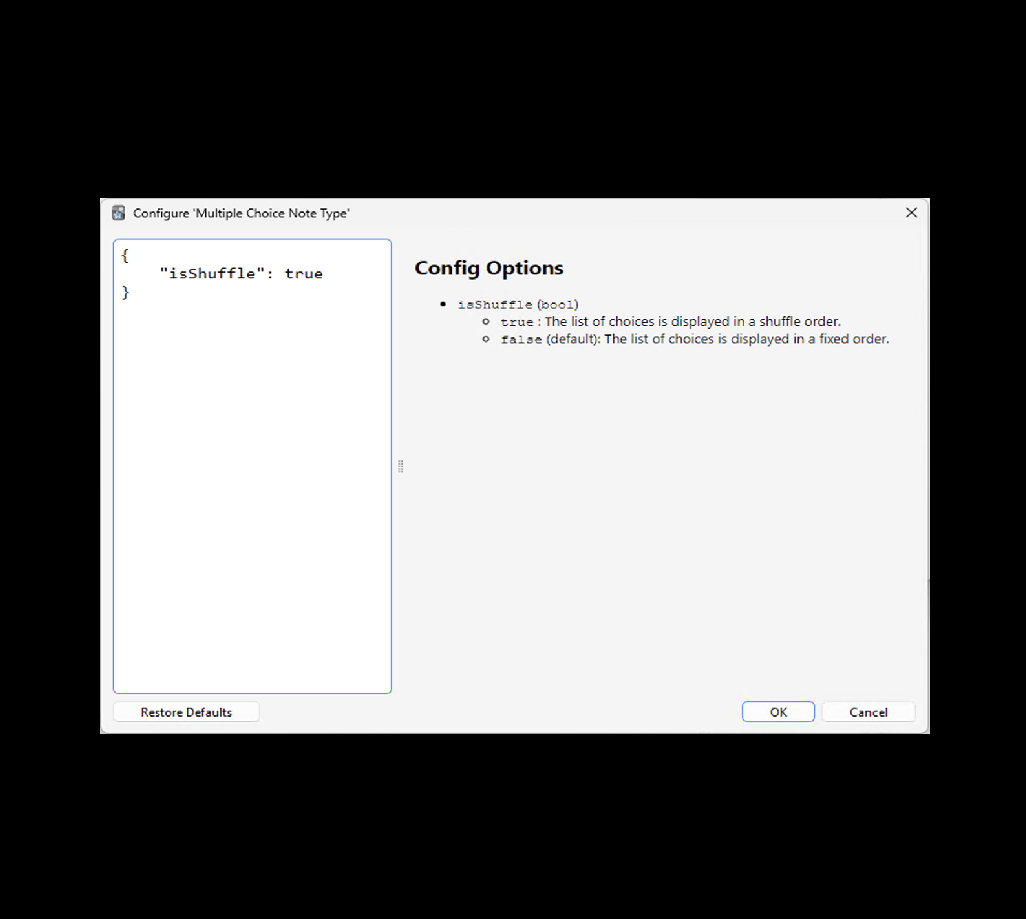
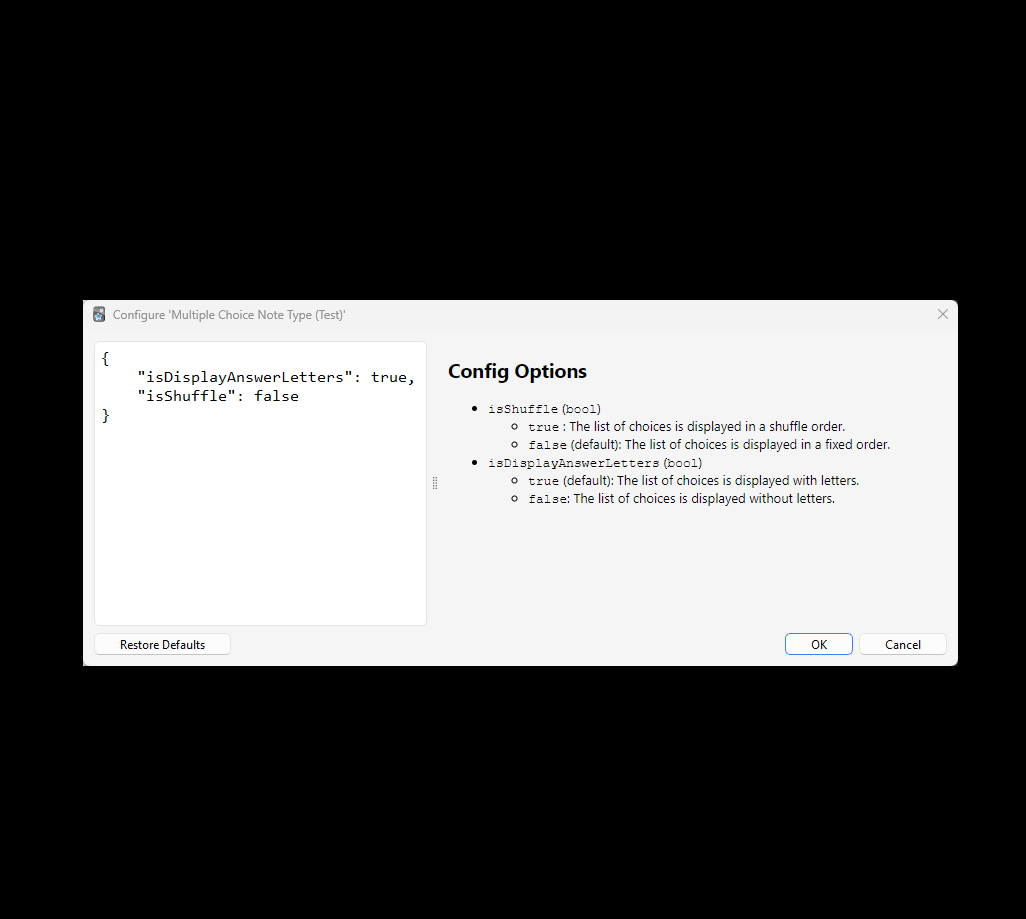
update to version v1.0.2

Changed region(s): [[0.0624, 0.2133, 0.9357, 0.8226], [0.3743, 0.4875, 0.4055, 0.518], [0.3743, 0.3961, 0.4055, 0.4266]]

diff --git a/src/mcnt/card-templates/back_template.html b/src/mcnt/card-templates/back_template.html
@@ -14,14 +14,17 @@
 
 {{#answers}}<p id="display-answers"></p>{{/answers}}
 {{#ref}}<p><b>Ref: </b>{{ref}}</p>{{/ref}}
-{{#explanation}}<fieldset><legend><b>Explanation:</b></legend>{{explanation}}</fieldset>{{/explanation}}
+{{#explanation}}<fieldset><legend><b>Explanation: {{tts en_US speed=0.8 voices=Apple_Samantha,Microsoft_Haruka:explanation}}</b></legend>{{explanation}}</fieldset>{{/explanation}}
 
 <script>
 
-	function returnTemplate(inputType, index, id, answer, checked, a ,b) {
+	function returnTemplate(inputType, index, id, answer, checked, a ,b, displayAnswerLetters) {
 		var result = '<div class="answer-div ' + a + '">';
 		result += '<div><input type="' + inputType + '" class="disabled-input" id="' + id + '" ' + checked + ' /></div>';
-		result += '<div>' + String.fromCharCode(index + 65)+ '.</div>';
+		if (displayAnswerLetters)
+			result += '<div>' + String.fromCharCode(index + 65)+ '.</div>';
+		else
+			result += '<div>&nbsp;</div>';
 		result += '<div><label for="' + id + '">' + answer + '</label></div>';
 		result += '<div class="' + b + '"></div>';
 		result += '</div>';
@@ -71,7 +74,7 @@
 			var checkAnswerResult = checkAnswer(divArray[i]);
 			if (checkAnswerResult == "correct" || checkAnswerResult == "missed") 
 				answerDisplayArray.push(String.fromCharCode(i + 65));
-			answerDiv.innerHTML += returnTemplate(inputType, i, answerJson[divArray[i]].id, answerJson[divArray[i]].answer, checked, checkAnswerResult + "-background", checkAnswerResult);
+			answerDiv.innerHTML += returnTemplate(inputType, i, answerJson[divArray[i]].id, answerJson[divArray[i]].answer, checked, checkAnswerResult + "-background", checkAnswerResult, isDisplayAnswerLetters);
 		}
 
 	}

diff --git a/src/mcnt/card-templates/front_template.html b/src/mcnt/card-templates/front_template.html
@@ -4,15 +4,24 @@
 </script>
 
 {{#number}}<h3>Question #{{number}}</h3>{{/number}}
-{{#question}}<p>{{question}}</p>{{/question}}
+{{#question}}
+<div class="question-div">
+	<div>{{tts en_US speed=0.8 voices=Apple_Samantha,Microsoft_Haruka:question}}</div>
+	<div>{{question}}</div>
+</div>
+{{/question}}
+<br/>
 <div id="answer-div"></div>
 
 <script>
 
-	function returnTemplate(inputType, index, id, answer) {
+	function returnTemplate(inputType, index, id, answer, displayAnswerLetters) {
 		var result = '<div class="answer-div">';
 		result += '<div><input type="' + inputType + '" onclick="selectAnswer();" name="SelectedAnswer" id="' + id + '" /></div>';
-		result += '<div>' + String.fromCharCode(index + 65)+ '.</div>';
+		if (displayAnswerLetters)
+			result += '<div>' + String.fromCharCode(index + 65)+ '.</div>';
+		else
+			result += '<div>&nbsp;</div>';
 		result += '<div><label for="' + id + '">' + answer + '</label></div>';
 		result += '<div></div>';
 		result += '</div>';
@@ -74,7 +83,7 @@
 	for (var i = 0; i < answerJson.length; i++) {
 		divArray.push(answerJson[i].id);
 		var inputType = answersArray.length > 1 ? "checkbox" : "radio";
-		answerDiv.innerHTML += returnTemplate(inputType, i, answerJson[i].id, answerJson[i].answer);
+		answerDiv.innerHTML += returnTemplate(inputType, i, answerJson[i].id, answerJson[i].answer, isDisplayAnswerLetters);
 	}
 
 	if (Persistence.isAvailable()) {

diff --git a/src/mcnt/card-templates/styling.css b/src/mcnt/card-templates/styling.css
@@ -4,6 +4,22 @@
     text-align: left;
 }
 
+.question-div {
+    vertical-align: top;
+    display: flex;
+}
+
+.question-div div:nth-child(1) {
+    display: inline-block;
+    margin: 5px 5px 5px 5px;
+    width: 60px;
+}
+
+.question-div div:nth-child(2) {
+    display: inline-block;
+    margin: 5px 15px 5px 0px;
+}
+
 .answer-div {
     vertical-align: top;
     display: flex;

diff --git a/src/mcnt/__init__.py b/src/mcnt/__init__.py
@@ -51,12 +51,19 @@ def create_note_type(col: Collection) -> dict[str, Any]:
     col.models.add_template(model, template)
 
     front_template = load_template(front_template_path)
-    if config["isShuffle"]:
-        model["tmpls"][0]["qfmt"] = front_template.replace("isShuffle","true")
+    if config["isShuffle"] is True and config["isDisplayAnswerLetters"] is True:
+        model["tmpls"][0]["qfmt"] = front_template.replace("isShuffle","true").replace("isDisplayAnswerLetters","true")
+    elif config["isShuffle"] is True and config["isDisplayAnswerLetters"] is False:
+        model["tmpls"][0]["qfmt"] = front_template.replace("isShuffle","true").replace("isDisplayAnswerLetters","false")
+    elif config["isShuffle"] is False and config["isDisplayAnswerLetters"] is True:
+        model["tmpls"][0]["qfmt"] = front_template.replace("isShuffle","false").replace("isDisplayAnswerLetters","true")
     else:
-        model["tmpls"][0]["qfmt"] = front_template.replace("isShuffle","false")
+        model["tmpls"][0]["qfmt"] = front_template.replace("isShuffle","false").replace("isDisplayAnswerLetters","false")
     back_template = load_template(back_template_path)
-    model["tmpls"][0]["afmt"] = back_template
+    if config["isDisplayAnswerLetters"] is True:
+        model["tmpls"][0]["afmt"] = back_template.replace("isDisplayAnswerLetters","true")
+    else:
+        model["tmpls"][0]["afmt"] = back_template.replace("isDisplayAnswerLetters","false")
     styling = load_template(styling_template_path)
     model["css"] = styling
 
@@ -72,12 +79,19 @@ def update_note_type(col: Collection) -> dict[str, Any]:
 
     # Update Card Template
     front_template = load_template(front_template_path)
-    if config["isShuffle"]:
-        model["tmpls"][0]["qfmt"] = front_template.replace("isShuffle","true")
+    if config["isShuffle"] is True and config["isDisplayAnswerLetters"] is True:
+        model["tmpls"][0]["qfmt"] = front_template.replace("isShuffle","true").replace("isDisplayAnswerLetters","true")
+    elif config["isShuffle"] is True and config["isDisplayAnswerLetters"] is False:
+        model["tmpls"][0]["qfmt"] = front_template.replace("isShuffle","true").replace("isDisplayAnswerLetters","false")
+    elif config["isShuffle"] is False and config["isDisplayAnswerLetters"] is True:
+        model["tmpls"][0]["qfmt"] = front_template.replace("isShuffle","false").replace("isDisplayAnswerLetters","true")
     else:
-        model["tmpls"][0]["qfmt"] = front_template.replace("isShuffle","false")
+        model["tmpls"][0]["qfmt"] = front_template.replace("isShuffle","false").replace("isDisplayAnswerLetters","false")
     back_template = load_template(back_template_path)
-    model["tmpls"][0]["afmt"] = back_template
+    if config["isDisplayAnswerLetters"] is True:
+        model["tmpls"][0]["afmt"] = back_template.replace("isDisplayAnswerLetters","true")
+    else:
+        model["tmpls"][0]["afmt"] = back_template.replace("isDisplayAnswerLetters","false")
     styling = load_template(styling_template_path)
     model["css"] = styling
 

diff --git a/README.md b/README.md
@@ -44,6 +44,11 @@ Change the order of the list of answers. ( Tools -> Add-ons -> Select "Multiple 
 - **Default** - The list of choices is displayed in a fixed order. ( Chnage `isShuffle` value to `false` )
 - The list of choices is displayed in a shuffle order. ( Chnage `isShuffle` value to `true` )
 
+Change the display of letters of answers. ( Tools -> Add-ons -> Select "Multiple Choice Note Type" -> Config)
+
+- **Default** - The list of choices is displayed with letters. ( Chnage `isDisplayAnswerLetters` value to `true` )
+- The list of choices is displayed without letters. ( Chnage `isDisplayAnswerLetters` value to `false` )
+
 <img src="https://raw.githubusercontent.com/jasonlws/anki-addon-mcnt/master/resources/config.png" width="700"> 
 
 ### Chnagelog
@@ -55,3 +60,7 @@ V1.0.0 - 2024-08-28
 V1.0.1 - 2024-09-11
 
 - Bugfix - Only one radio button allow select
+
+V1.0.2 - 2025-02-13
+
+- Enhance - Change the display of letters of answers

diff --git a/src/mcnt/config.md b/src/mcnt/config.md
@@ -3,3 +3,6 @@
 - `isShuffle` (`bool`)
     - `true` : The list of choices is displayed in a shuffle order.
     - `false` (default): The list of choices is displayed in a fixed order.
+- `isDisplayAnswerLetters` (`bool`)
+    - `true` (default): The list of choices is displayed with letters.
+    - `false`: The list of choices is displayed without letters.
